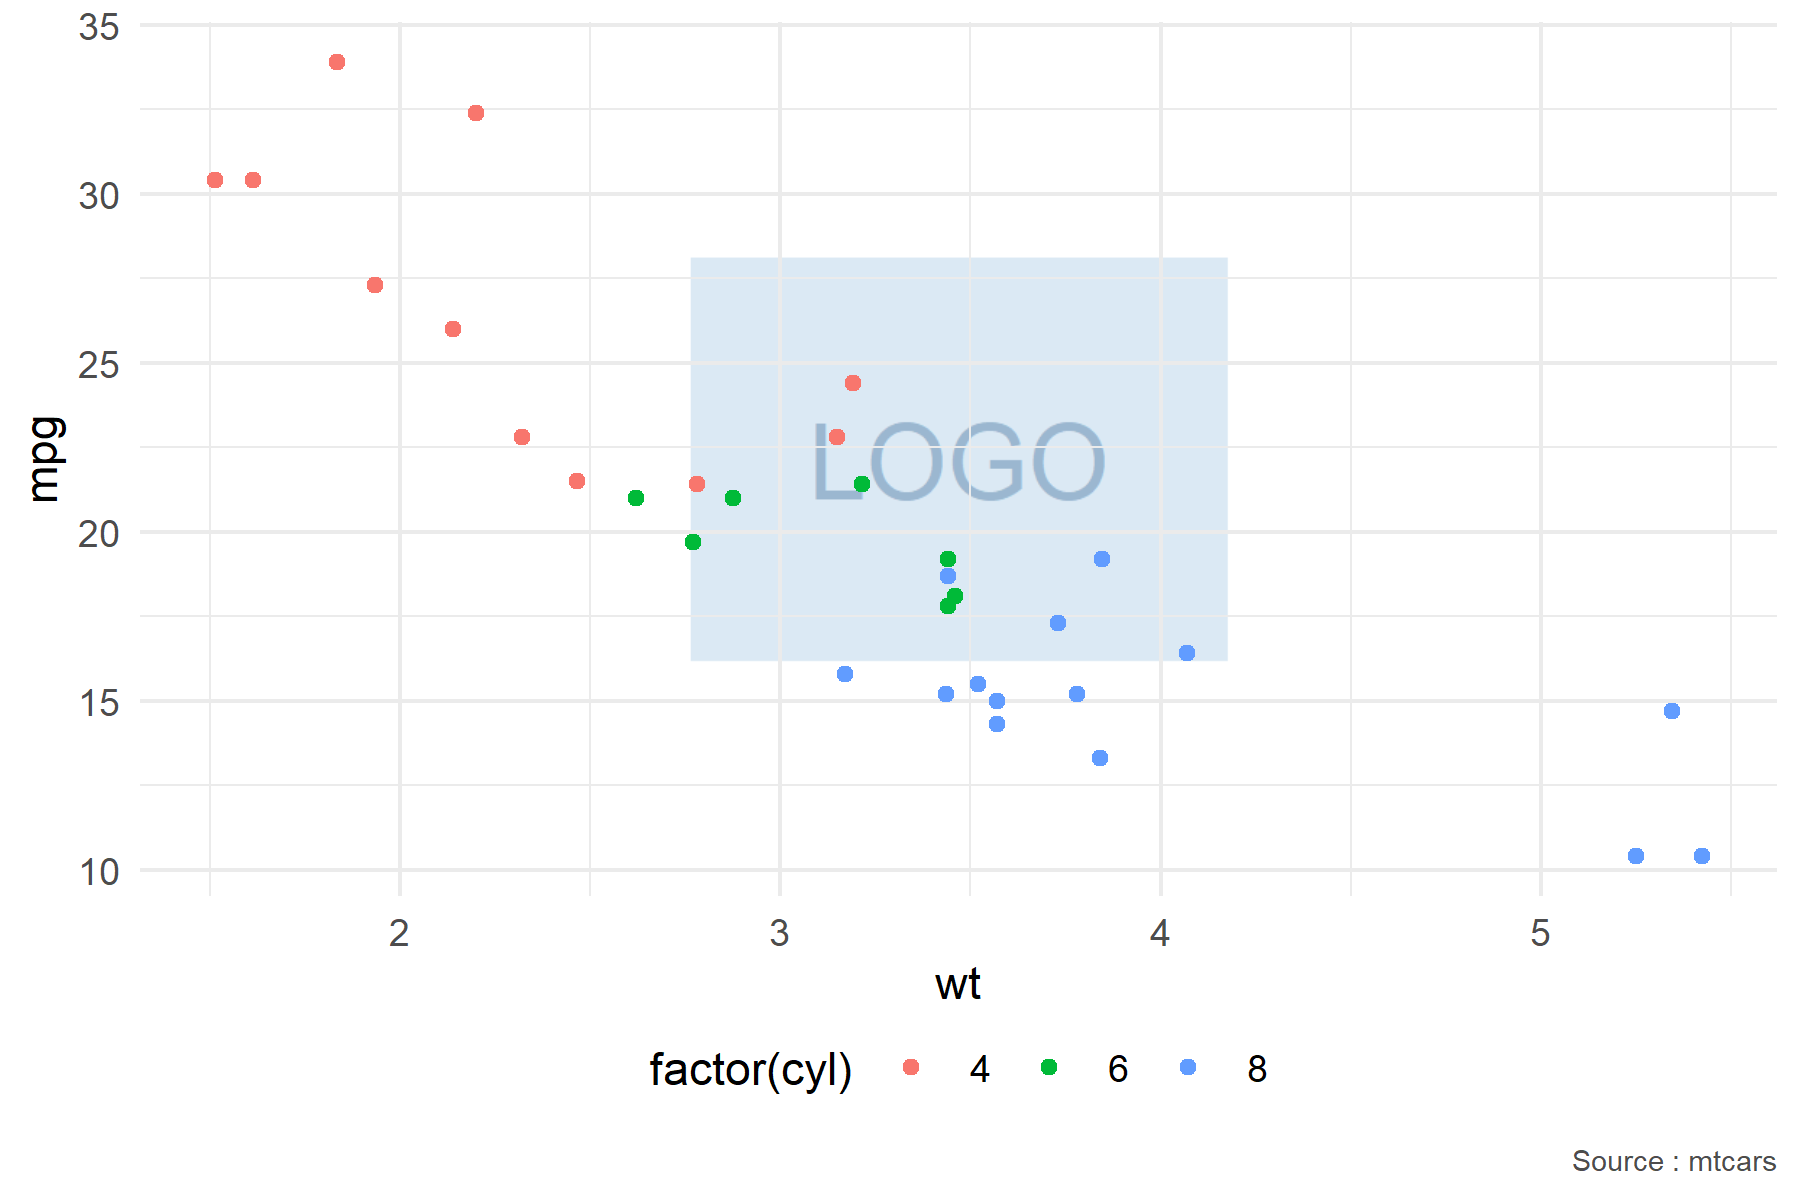
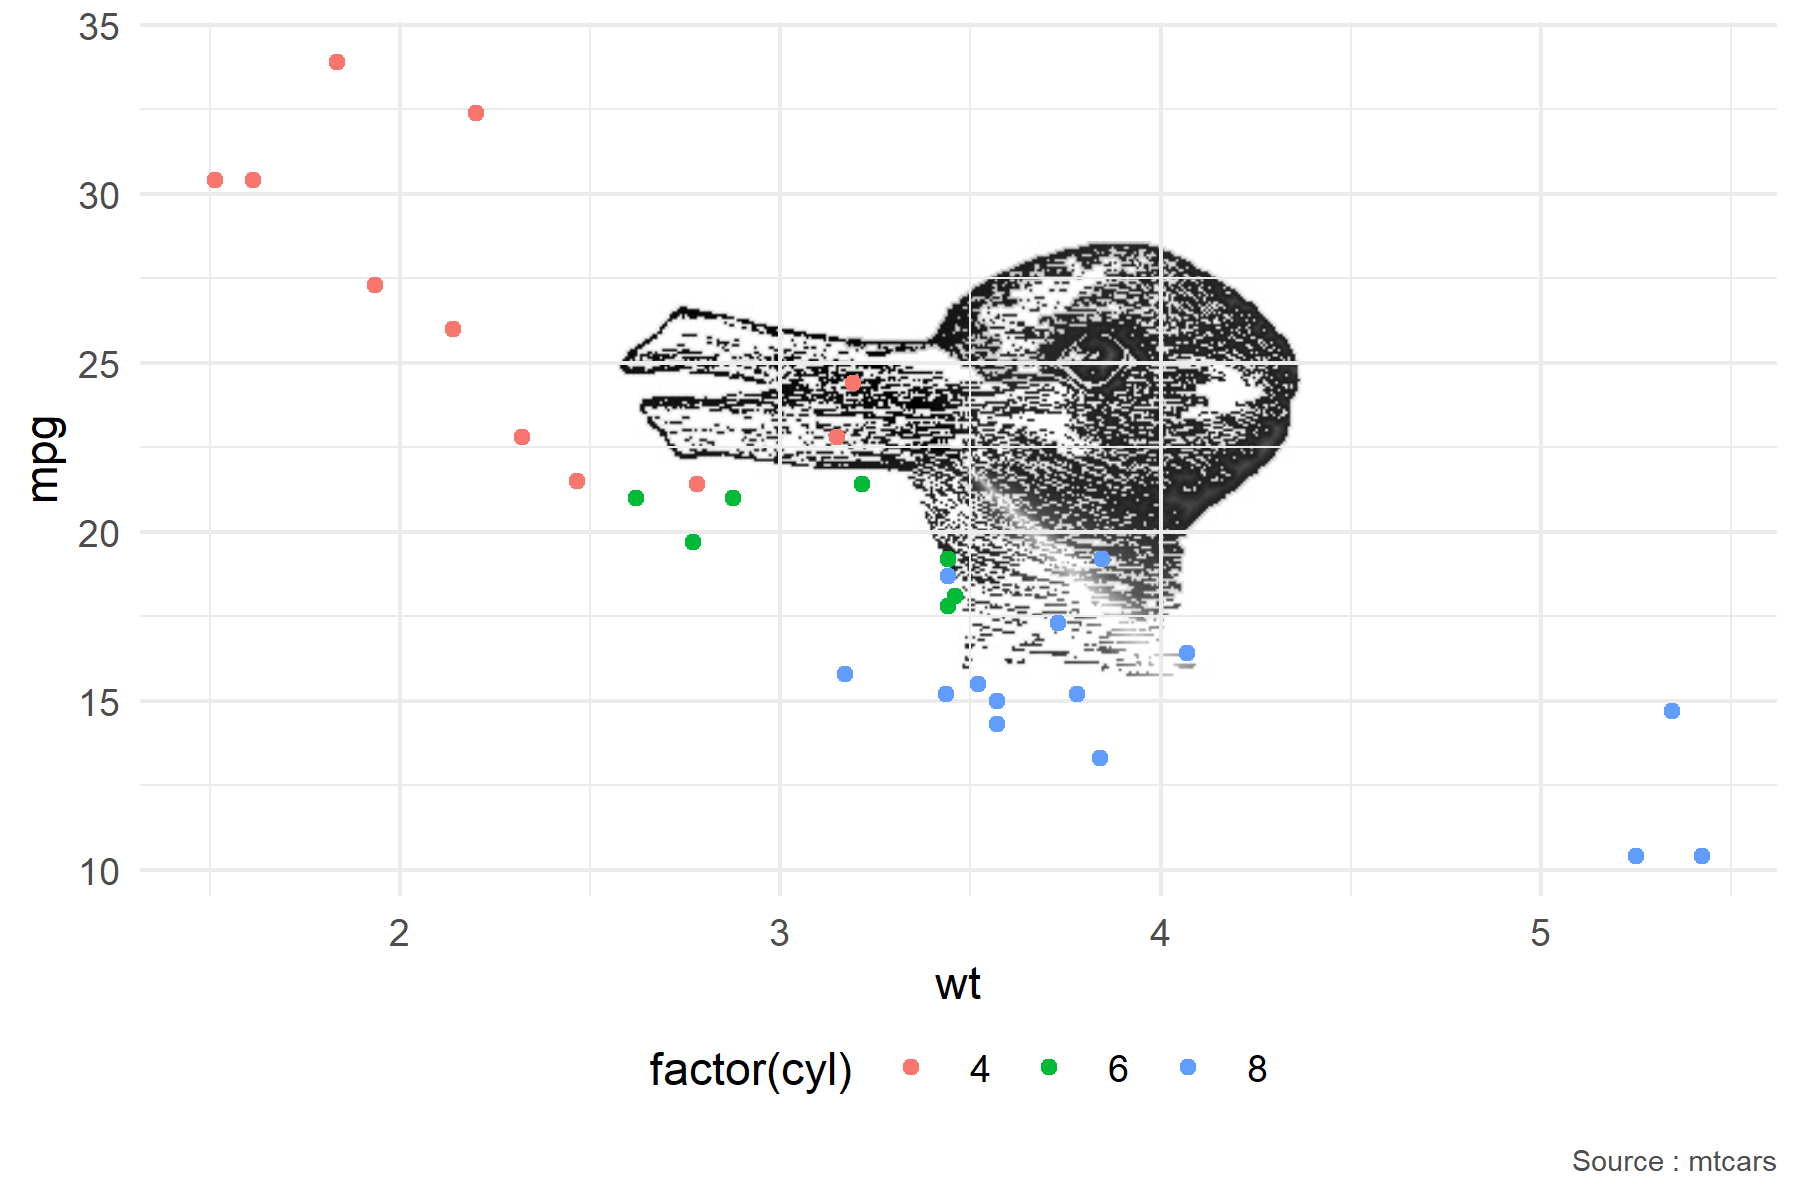
correction du README

Changed region(s): [[0.3422, 0.185, 0.7467, 0.5858]]

diff --git a/README.md b/README.md
@@ -189,9 +189,9 @@ leaflet::leaflet() |>
                       icon = my_markers[names(list_col)])
 ```
 
-    #> file:///C:/Users/Delagarde/AppData/Local/Temp/RtmpMNiNqX/file4e601f5d6b09.html screenshot completed
+    #> file:///C:/Users/Delagarde/AppData/Local/Temp/RtmpAj5npG/file3ef44c78f84.html screenshot completed
 
-<img src="man/figures/README-leaflet-capture-1.png" alt="" width="100%" /><img src="man/figures/README-leaflet.png" alt="" width="100%" />
+<img src="man/figures/README-leaflet-capture-1.png" alt="" width="100%" />
 
 ### Département à partir de coordonnées
 
@@ -224,16 +224,9 @@ head(res$centroides)
 p <- ggplot(mtcars, aes(wt, mpg, color = factor(cyl))) +
   geom_point() +
   labs(caption = "Source : mtcars")
+url_img <- "http://mathworld.wolfram.com/images/gifs/rabbduck.jpg"
 
-# image de fond générée pour l'exemple
-img <- tempfile(fileext = ".png")
-png(img, width = 400, height = 300)
-par(mar = c(0, 0, 0, 0)); plot.new()
-rect(0, 0, 1, 1, col = "#dbe9f4", border = NA)
-text(0.5, 0.5, "LOGO", cex = 6, col = "#9bb7d0")
-invisible(dev.off())
-
-save_plot_bg(p, "man/figures/README-plot-bg.png", image_path = img,
+save_plot_bg(p, "man/figures/README-plot-bg.png", image_path = url_img,
              width = 6, height = 4)
 knitr::include_graphics("man/figures/README-plot-bg.png")
 ```
@@ -298,7 +291,11 @@ rf <- randomForest::randomForest(Sepal.Length ~ ., data = iris, importance = TRU
 
 rf_fig(rf, titre = "Importance des variables",
        fichier = "man/figures/README-rf-fig.png")
+
+knitr::include_graphics("man/figures/README-rf-fig.png")
 ```
+
+<img src="man/figures/README-rf-fig.png" alt="" width="100%" />
 
 ## Licence
 
